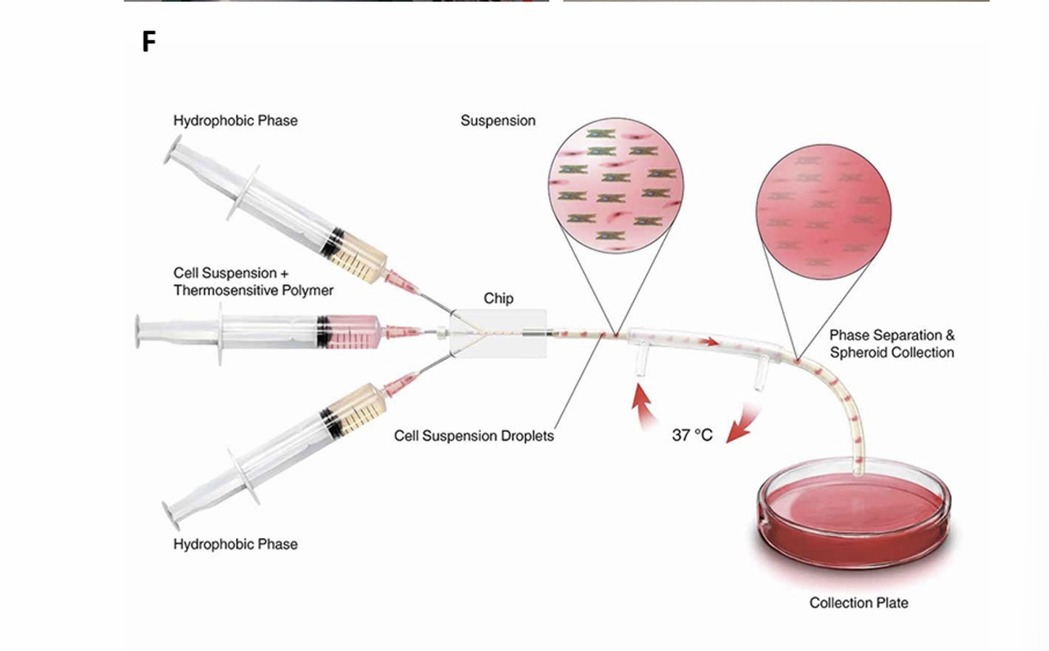
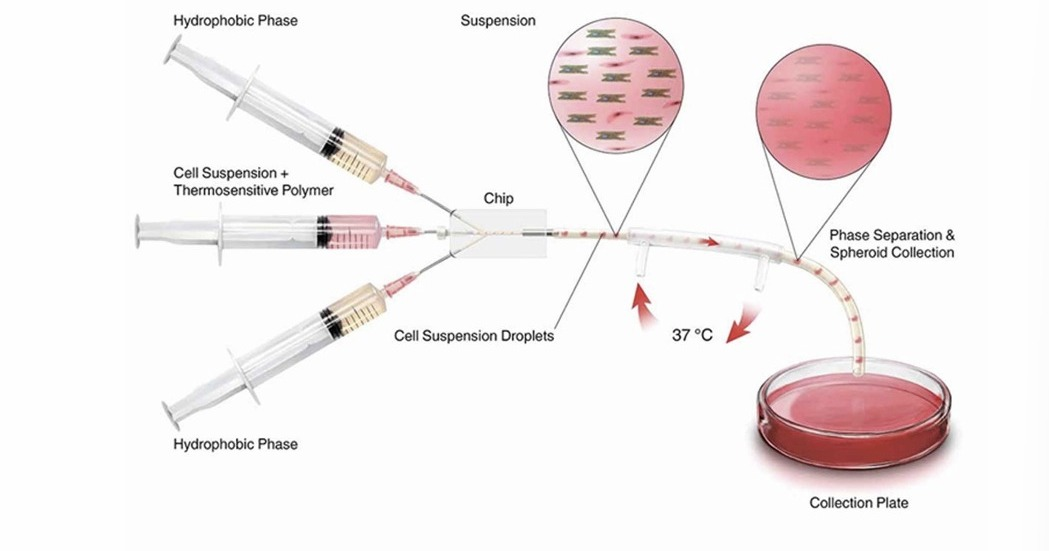
Crop F label out of micro-enc.jpg and cover full figure card

Changed region(s): [[0.122, 0.0, 0.9457, 0.9564], [0.4576, 0.3394, 0.4881, 0.3702]]

diff --git a/research.html b/research.html
@@ -24,20 +24,17 @@
 
 .figure.is-photo{
   clip-path:none !important;
-  background:#f4f0e8;
+  background:#ffffff;
   overflow:hidden;
 }
 .fig-photo{
   position:absolute; inset:0;
-  display:flex; align-items:center; justify-content:center;
-  padding:20px;
-  background:#f4f0e8;
+  background:#ffffff;
 }
 .fig-photo img{
-  max-width:100%; max-height:100%;
-  width:auto; height:auto;
+  width:100%; height:100%;
   display:block;
-  object-fit:contain;
+  object-fit:cover;
 }
 
 .ed-filters{display:flex; gap:8px; flex-wrap:wrap; margin-bottom:32px; font-family:"JetBrains Mono",monospace; font-size:.68rem; letter-spacing:.08em; text-transform:uppercase}
